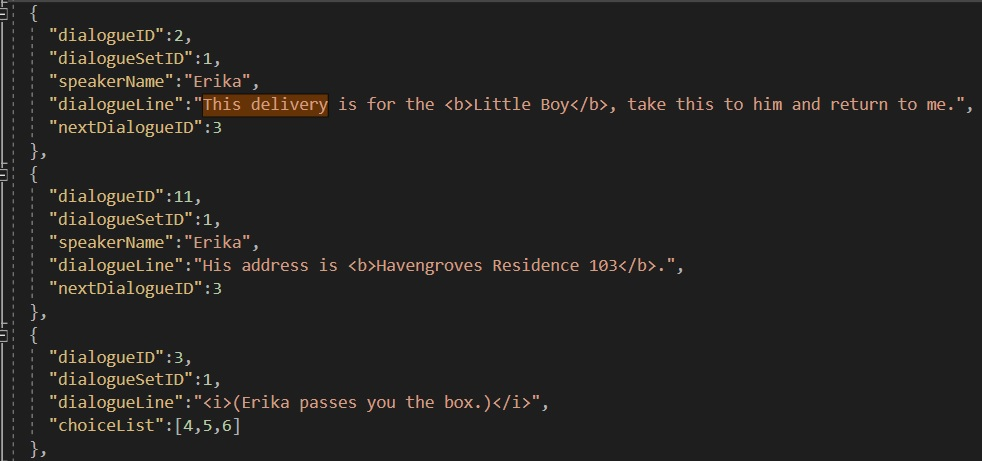
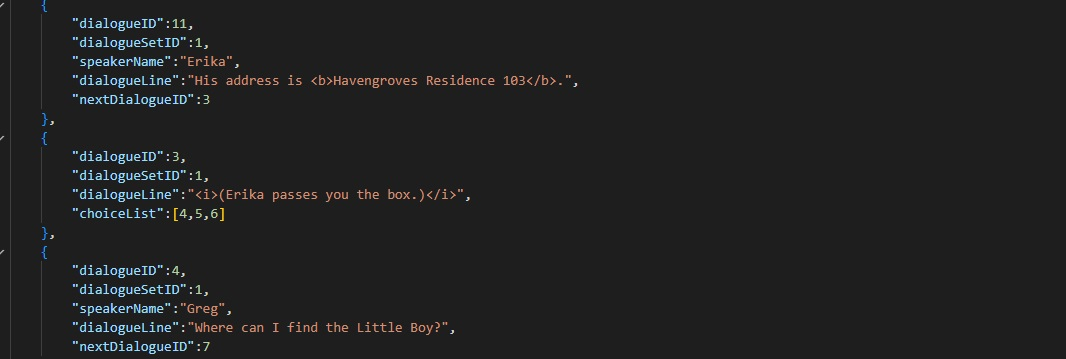
forgot smth for parcels

Changed region(s): [[0.0, 0.0, 1.0, 1.0]]

diff --git a/_projects/Parcels.md b/_projects/Parcels.md
@@ -260,7 +260,16 @@ In the later phases of Parcels' development, my focus moved to assisting with ga
 
 # <b> Dialogue system: <a name = "dialogue"></a>
 
-One of the gameplay components I worked on was Parcel's dialogue system. It allows designers to control which dialogue <i>(stored in JSON files)</i> to run, what sprites to use, and many more parameters that are accessible via an interface from the scripting engine.
+One of the gameplay components I worked on was Parcel's dialogue system. It allows designers to control which dialogue <i>(stored in JSON files, see image below)</i> to run, what sprites to use, and many more parameters that are accessible via an interface from the scripting engine.
+
+<div class = "no-padding-bottom">
+    <img src="/images/Parcels/Gameplay/dialogueJSON.jpg" width="100%" height="100%">
+        <div class="centered-text">
+        <i>Parcel's dialogue JSON format.</i>
+    </div>
+</div>
+
+<br>
 
 It took me many iterations with both the artists and designers to obtain a product that everyone was statisfied with. Here are some of the early iterations of the dialogue system which features various animations/designs:
 
@@ -317,7 +326,7 @@ The final look of Parcel's dialogue system:
 
 I also worked on a handful of Parcel's UI such as:
 
-#### <b> Main menu:
+#### <b> Main menu & transitions:
 <div class = "no-padding-bottom">
     <img src="/images/Parcels/Gameplay/menu.gif" width="100%" height="100%">
         <div class="centered-text">
